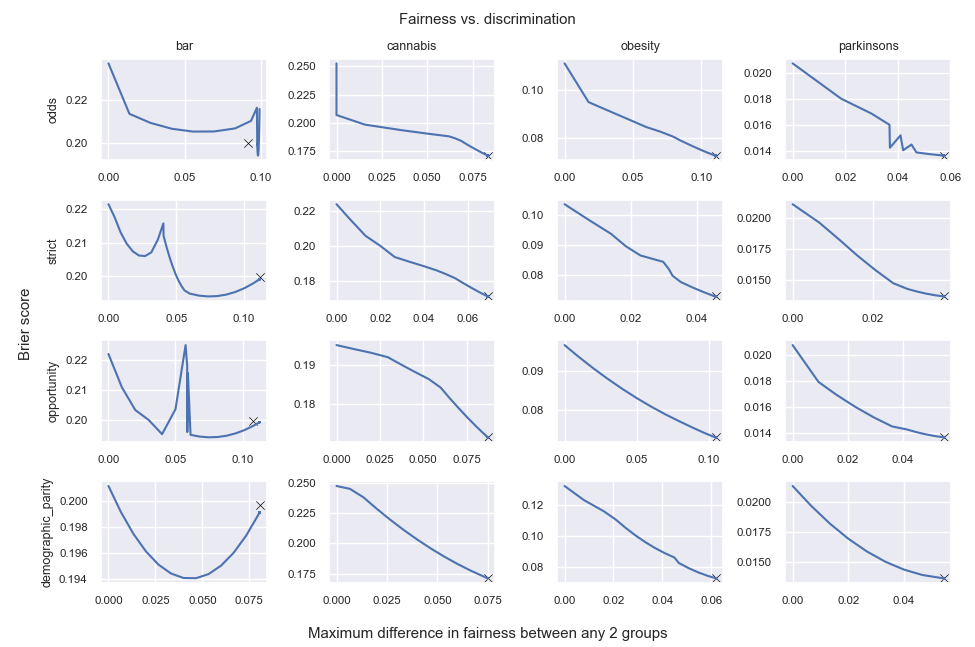
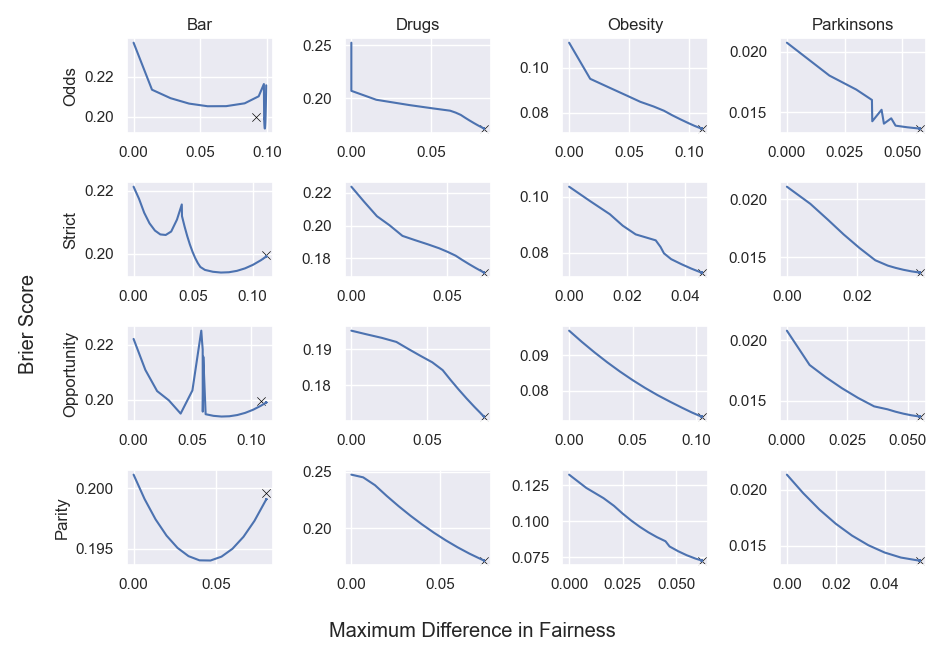
image refresh

diff --git a/fd_plots.py b/fd_plots.py
@@ -24,16 +24,17 @@ weed_probs = pickle.load(open(data_dir + 'weed_probs.pkl', 'rb'))
 obesity_probs = pickle.load(open(data_dir + 'obesity_probs.pkl', 'rb'))
 park_probs = pickle.load(open(data_dir + 'park_probs.pkl', 'rb'))
 
-df_names = ['bar', 'cannabis', 'obesity', 'parkinsons']
+df_names = ['Bar', 'Drugs', 'Obesity', 'Parkinsons']
 datasets = [bar, weed, obesity, park]
 probs = [bar_probs, weed_probs, obesity_probs, park_probs]
 
 # Defining the 4 fairness types
 goals = ['odds', 'strict', 'opportunity', 'demographic_parity']
+goal_names = ['Odds', 'Strict', 'Opportunity', 'Parity']
 
 # Making the two relplots: one for micro loss, and one for macro
 sns.set_style('darkgrid')
-sns.set(font_scale=.75)
+sns.set(font_scale=1)
 
 fig, axes = plt.subplots(nrows=4, ncols=4, sharey=False)
 
@@ -52,7 +53,7 @@ for i, goal in enumerate(goals):
                       ax=axes[i, j])
 
 # Labeling the fairness constraint types
-for i, goal in enumerate(goals):
+for i, goal in enumerate(goal_names):
     plt.setp(axes[i, 0], ylabel=goal)
 
 # Labeling the datasets
@@ -60,8 +61,8 @@ for i, ds in enumerate(df_names):
     plt.setp(axes[0, i], title=ds)
 
 fig.set_tight_layout(True)
-fig.suptitle('Fairness vs. discrimination')
-fig.supxlabel('Maximum difference in fairness between any 2 groups')
-fig.supylabel('Brier score')
+#fig.suptitle('Fairness vs. discrimination')
+fig.supxlabel('Maximum Difference in Fairness')
+fig.supylabel('Brier Score')
 
 plt.show()
